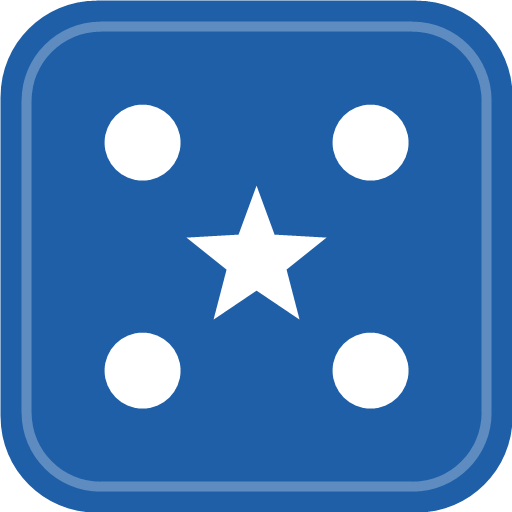
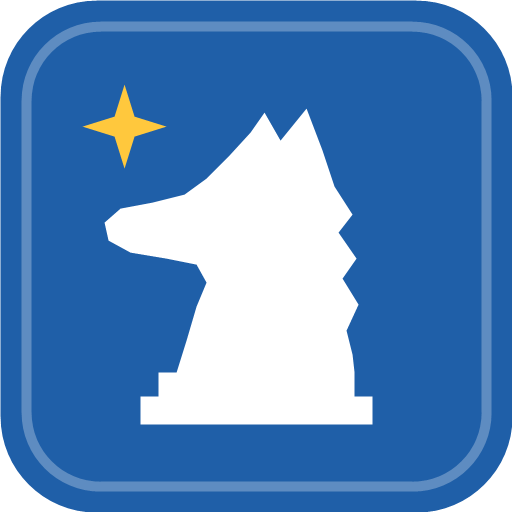
Blunderluck v0.4.0

Changed region(s): [[0.1562, 0.1562, 0.8125, 0.8438]]

diff --git a/js/konfig.js b/js/konfig.js
@@ -16,7 +16,7 @@ const KONFIG = {
     /* Version der App (SemVer: 0.MINOR.PATCH — die 0 vorne heisst "noch in
        Entwicklung", 1.0.0 erst bei erfuellten Fertig-Kriterien der ROADMAP).
        Wird im Kopf angezeigt und muss zu CHANGELOG.md passen. */
-    APP_VERSION: "0.3.0",
+    APP_VERSION: "0.4.0",
 
     speicher: {
 

diff --git a/CHANGELOG.md b/CHANGELOG.md
@@ -3,6 +3,17 @@
 Neueste Version oben. Jede ausgelieferte Version bekommt hier ihren Eintrag —
 in Nutzersprache: Was habe ich davon?
 
+## v0.4.0 — 23.08.2026
+
+**Ein eigenes Zeichen: Springer und Funke.**
+
+- Blunderluck hat sein eigenes App-Zeichen — ein weisser Springer auf blauem
+  Grund, dazu ein goldener Funke für das Glück. Bisher stand dort noch der
+  geerbte Würfel des Quizz.
+- Zu sehen im Lesezeichen des Browsers und auf dem Startbildschirm, wenn du
+  die Seite dort ablegst. **Wer sie schon abgelegt hat, muss sie einmal
+  entfernen und neu hinzufügen** — Handys merken sich das alte Bild.
+
 ## v0.3.0 — 23.08.2026
 
 **„Ich bin raus" — den eigenen Eintrag selbst löschen.**
